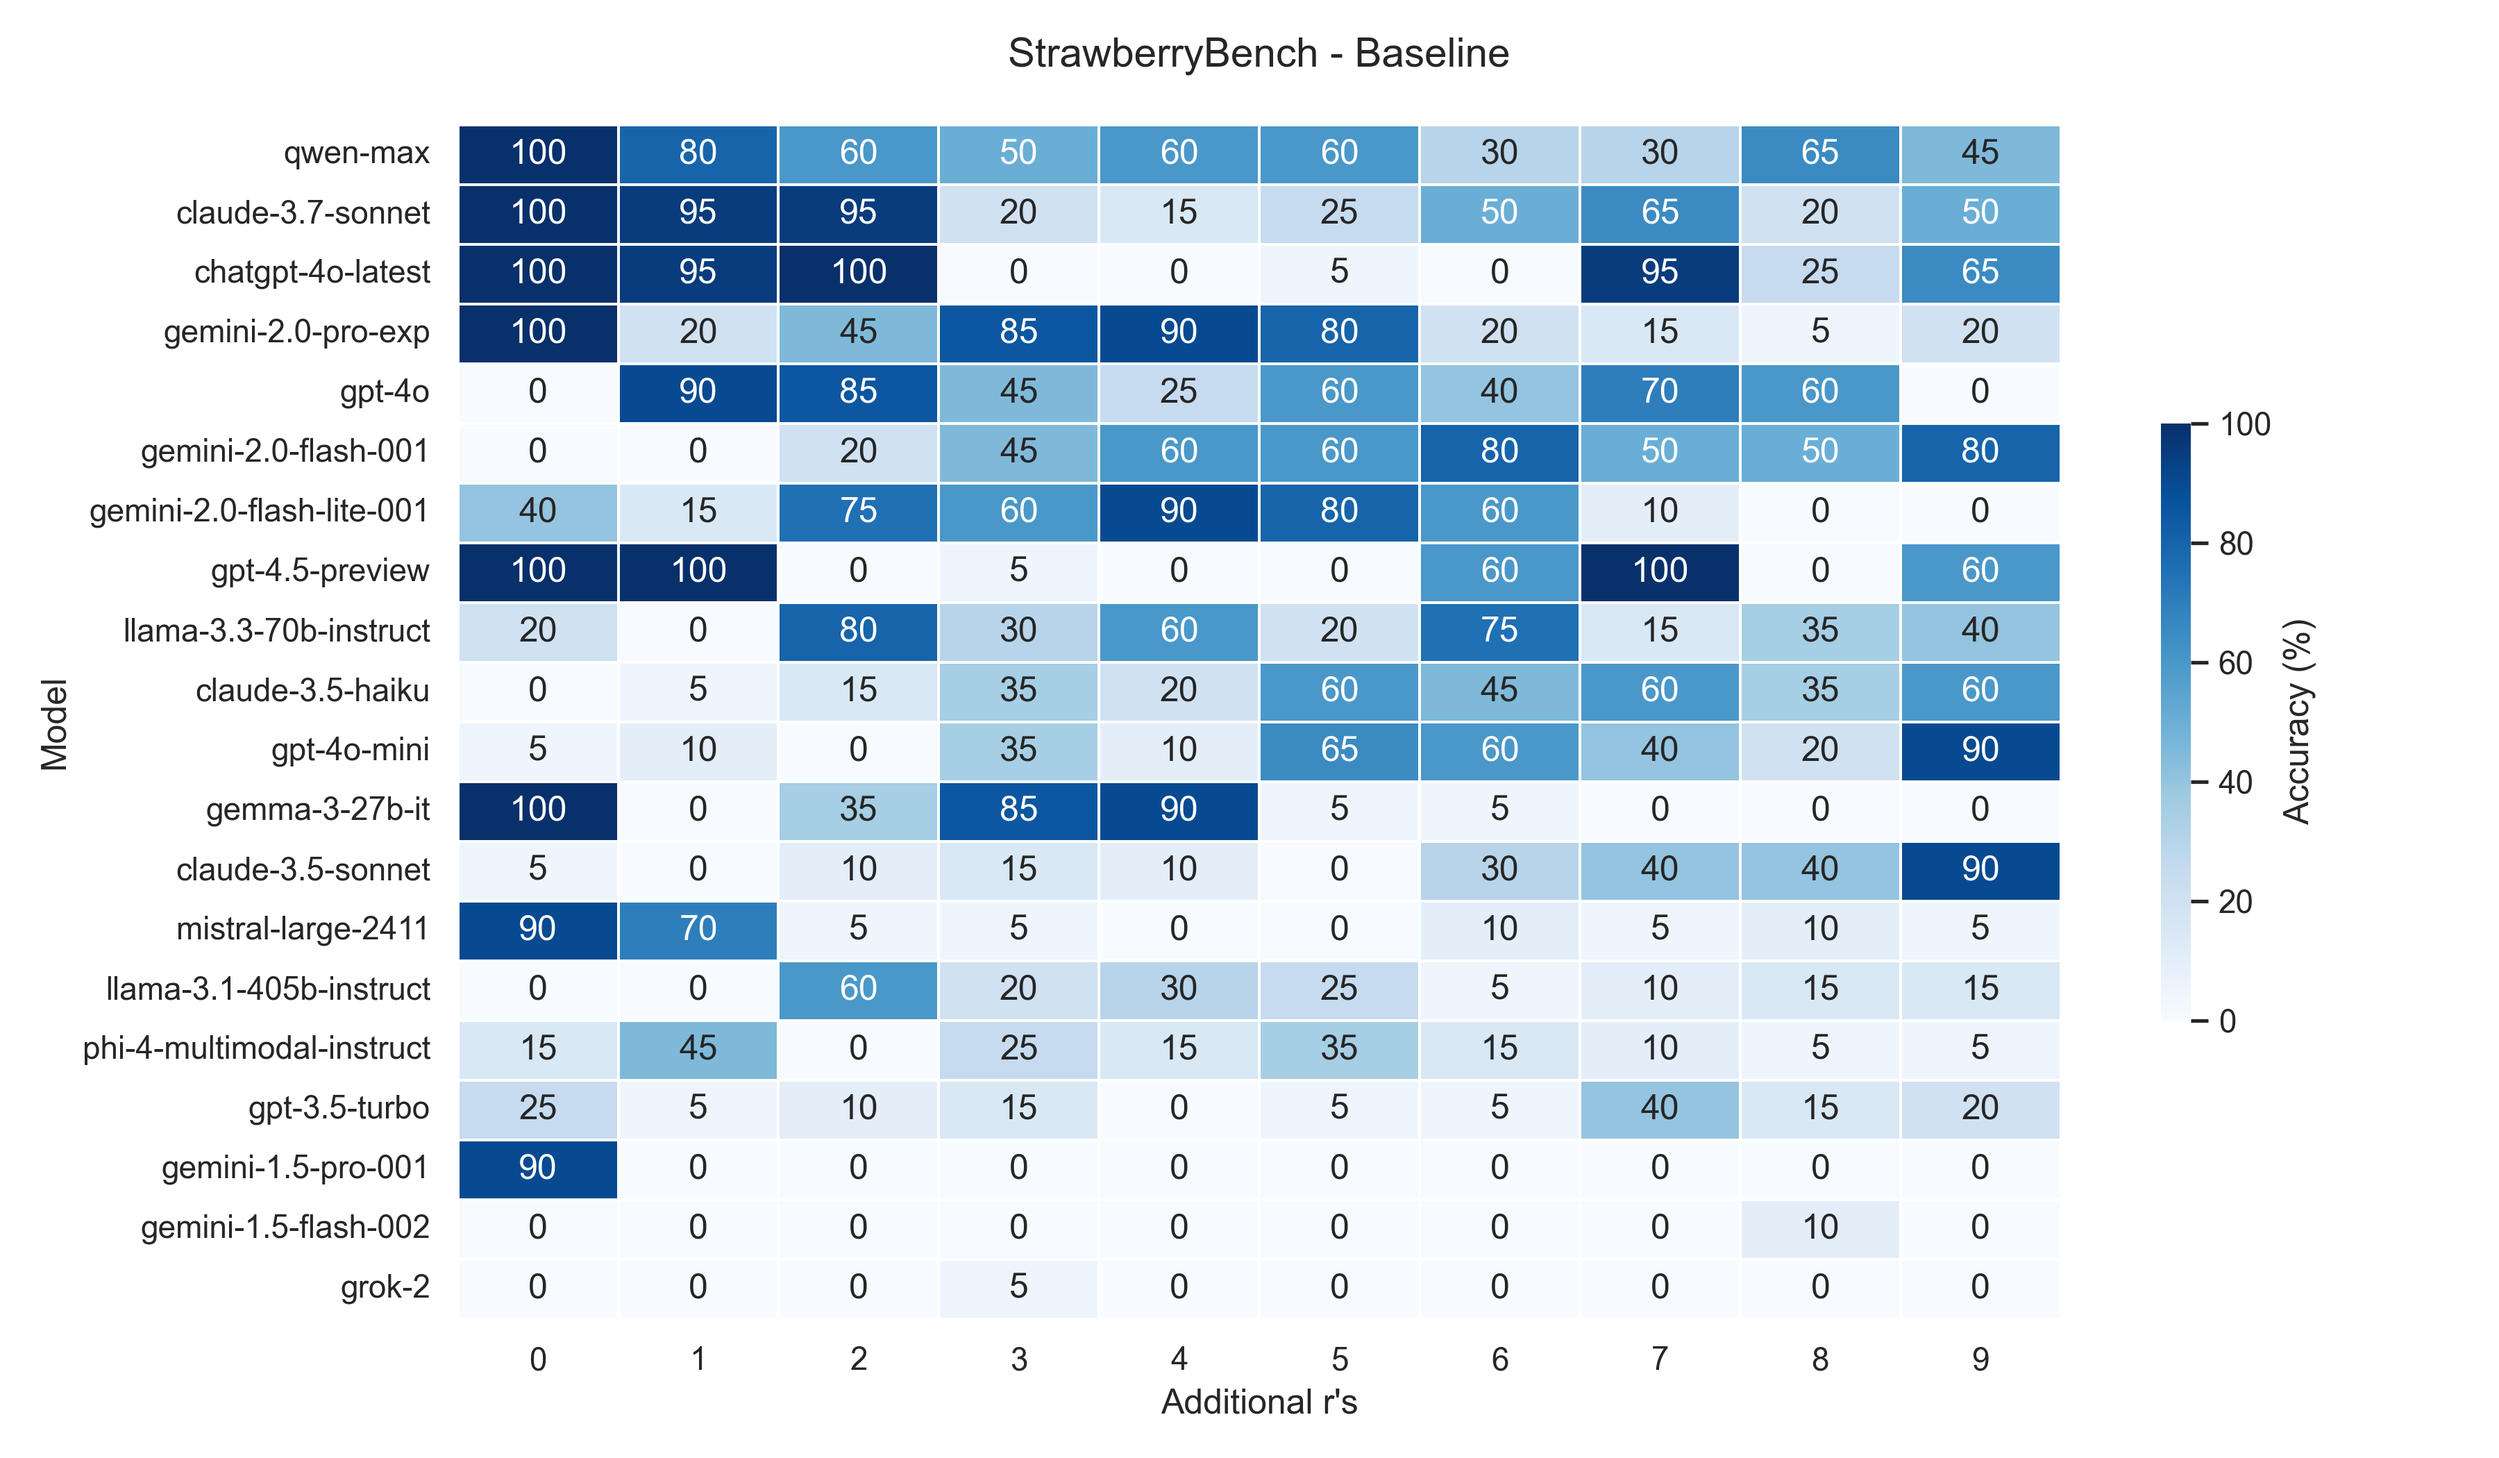
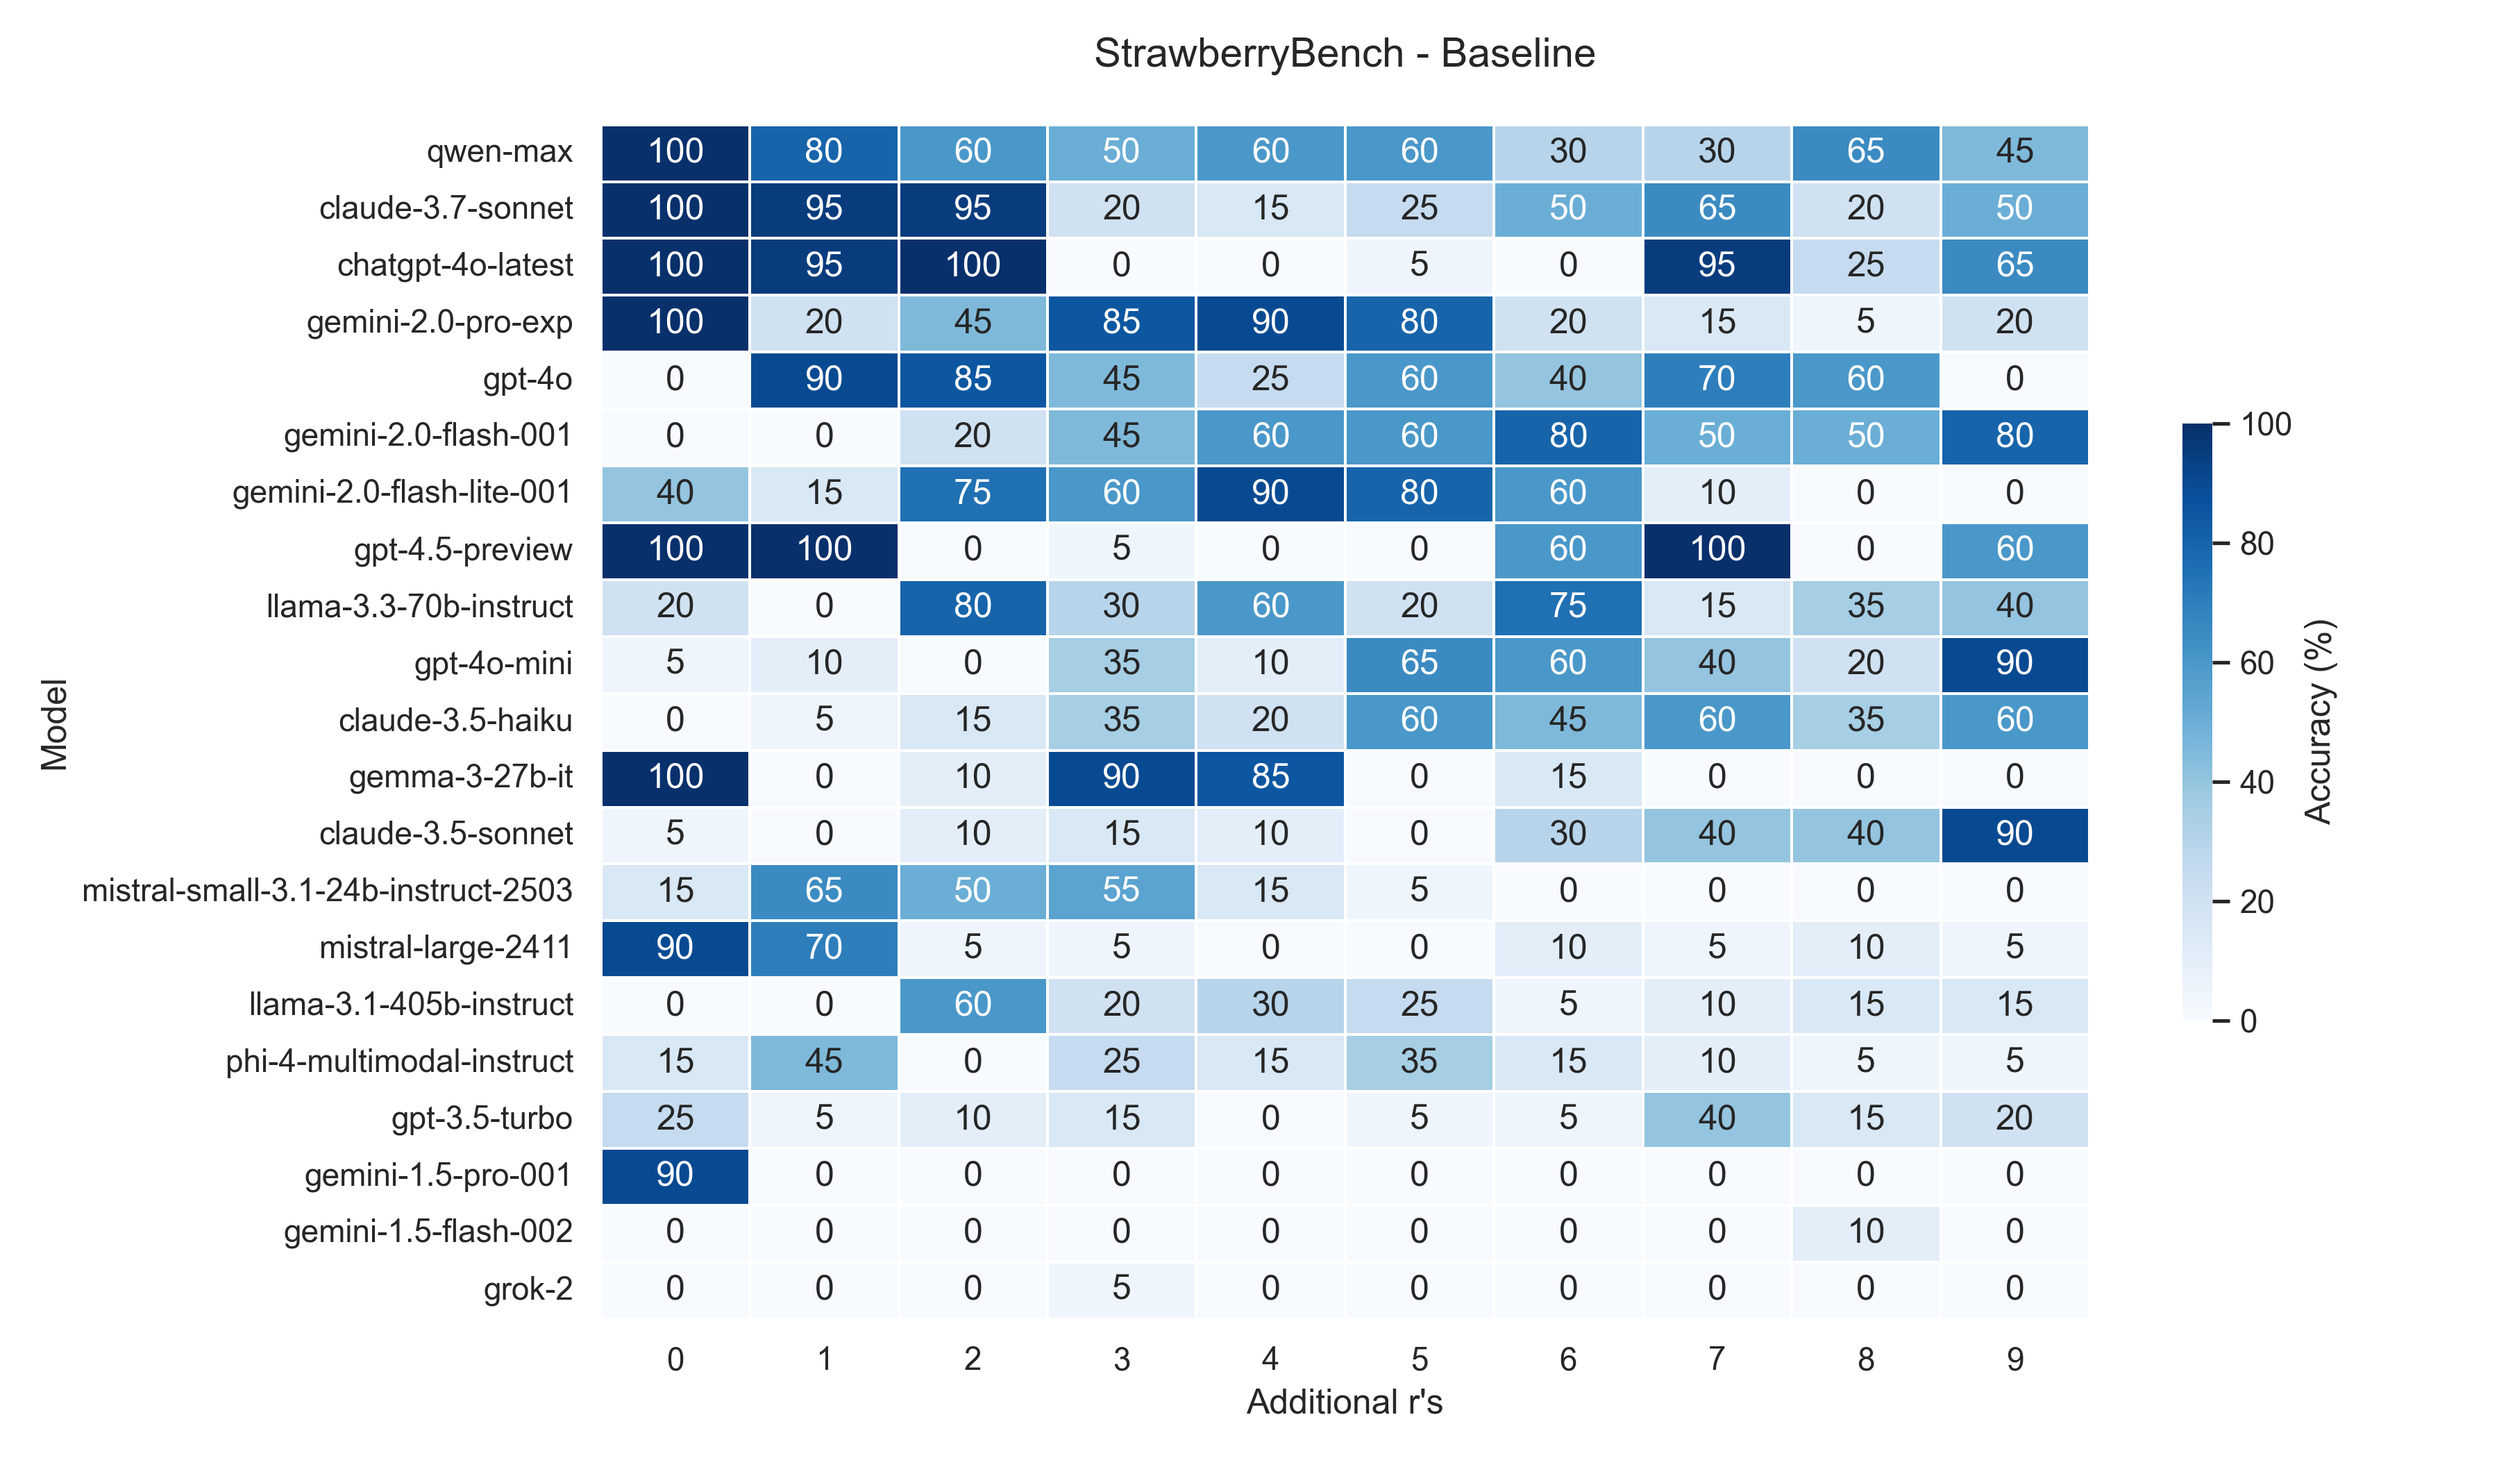
Add mistral small 3.1 24B

Changed region(s): [[0.0311, 0.031, 0.9333, 0.8976], [0.4667, 0.9286, 0.56, 0.9905], [0.7778, 0.8667, 0.8089, 0.8976]]

diff --git a/config.py b/config.py
@@ -12,6 +12,7 @@ MODELS = [
     # { "name": "meta-llama/llama-3.3-70b-instruct", "client": "openrouter", "type": "nocot" },
     # { "name": "microsoft/phi-4-multimodal-instruct", "client": "openrouter", "type": "nocot" },
     # { "name": "mistralai/mistral-large-2411", "client": "openrouter", "type": "nocot" },
+    # { "name": "mistralai/mistral-small-3.1-24b-instruct-2503", "client": "openrouter", "type": "nocot" },
     # { "name": "openai/chatgpt-4o-latest", "client": "openai", "type": "nocot" },
     # { "name": "openai/gpt-3.5-turbo", "client": "openai", "type": "nocot" },
     # { "name": "openai/gpt-4.5-preview", "client": "openai", "type": "nocot" },
@@ -33,6 +34,7 @@ MODELS = [
     # { "name": "meta-llama/llama-3.3-70b-instruct", "client": "openrouter", "type": "cot" },
     # { "name": "microsoft/phi-4-multimodal-instruct", "client": "openrouter", "type": "cot" },
     # { "name": "mistralai/mistral-large-2411", "client": "openrouter", "type": "cot" },
+    # { "name": "mistralai/mistral-small-3.1-24b-instruct-2503", "client": "openrouter", "type": "cot" },
     # { "name": "openai/chatgpt-4o-latest", "client": "openai", "type": "cot" },
     # { "name": "openai/gpt-3.5-turbo", "client": "openai", "type": "cot" },
     # { "name": "openai/gpt-4.5-preview", "client": "openai", "type": "cot" },
